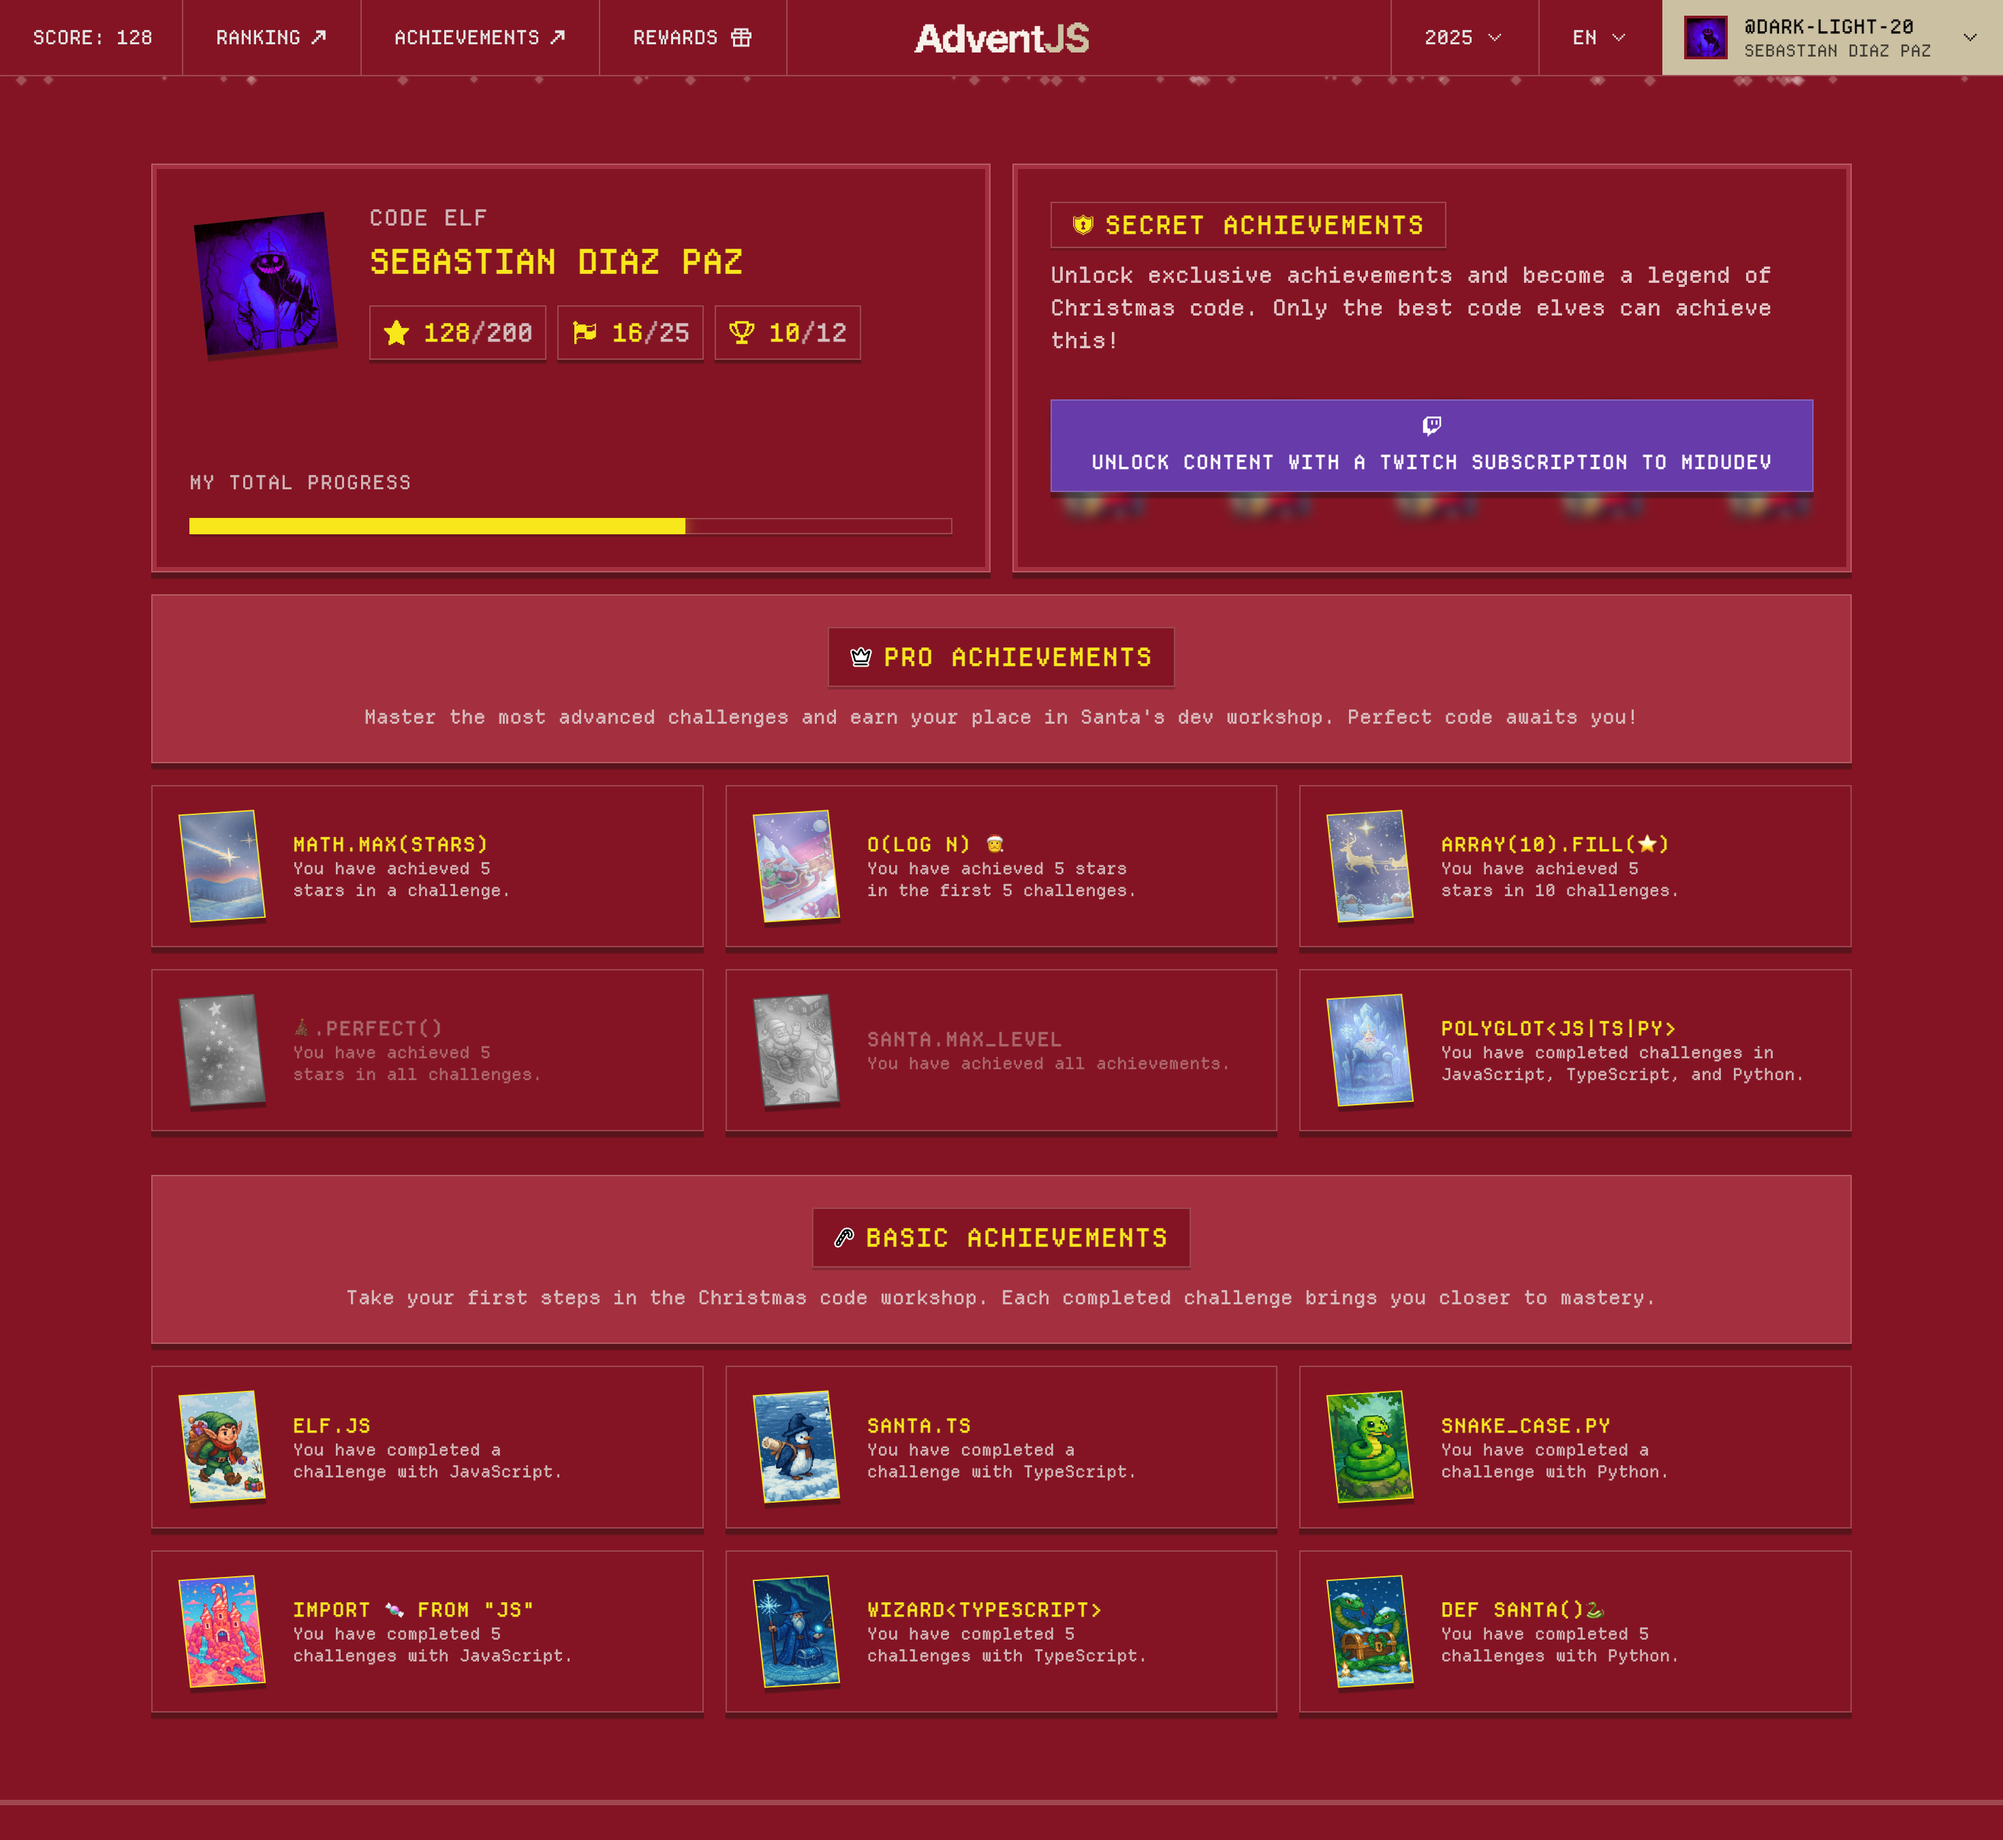
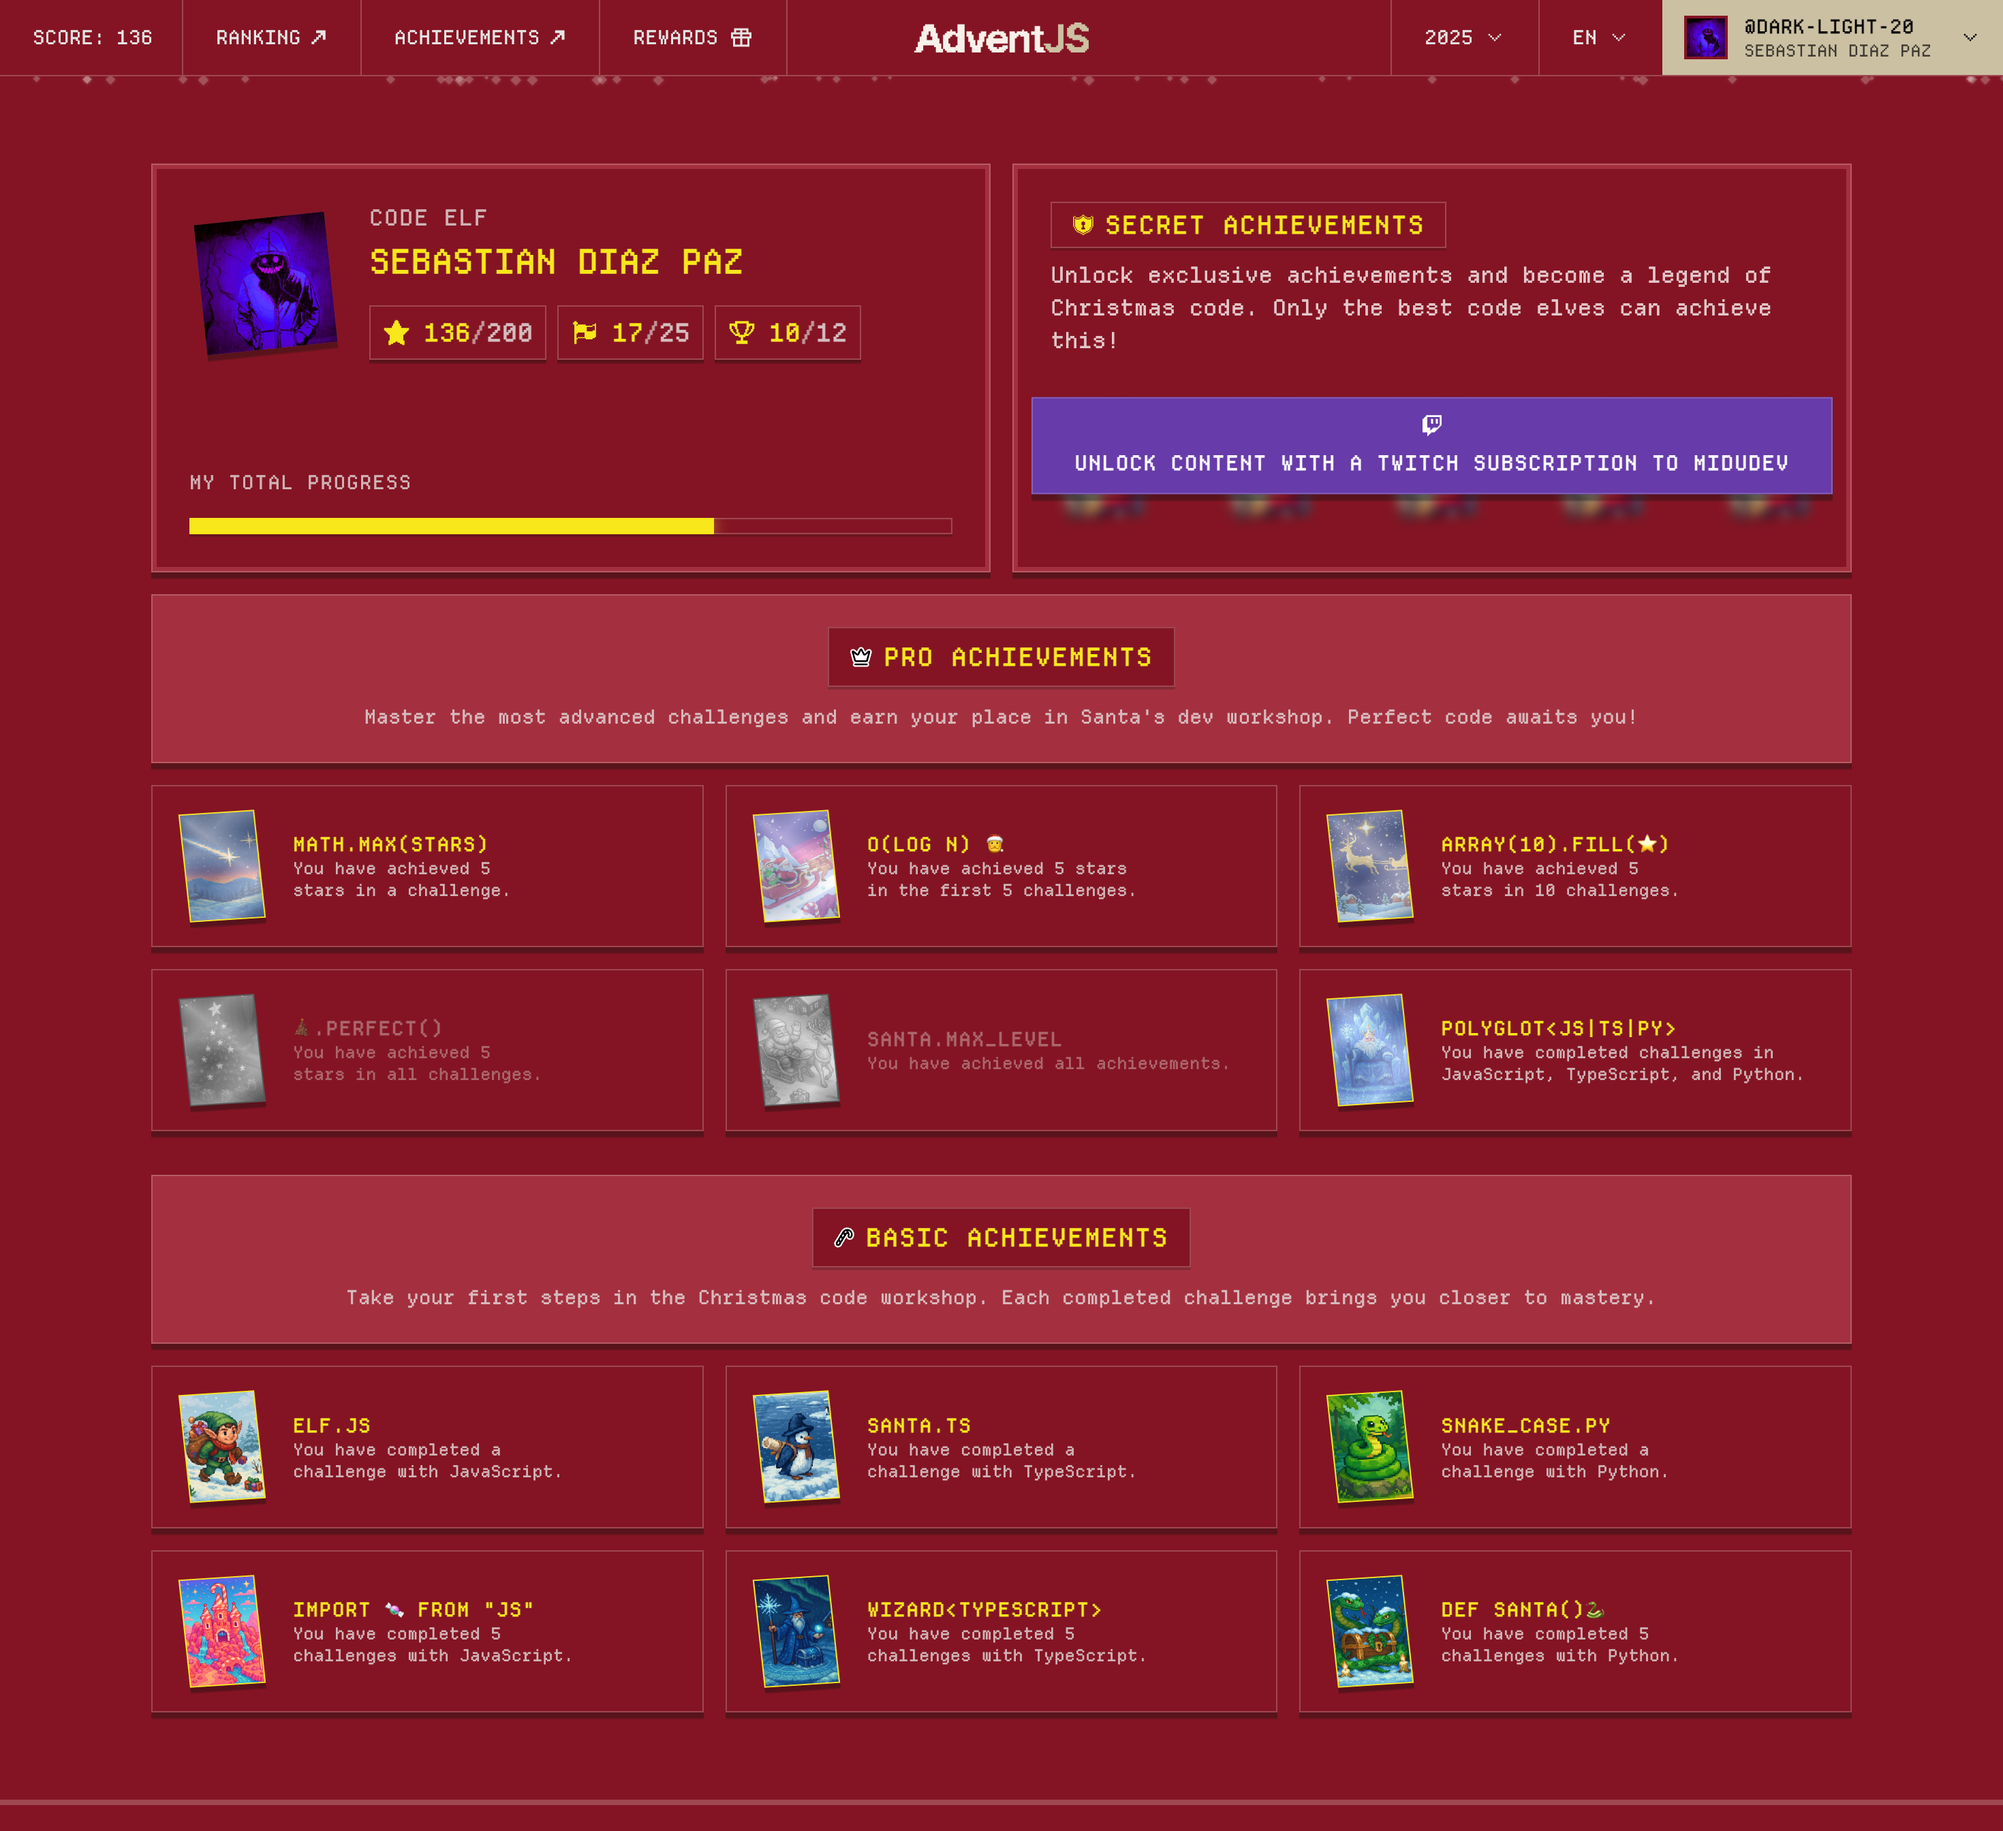
feat: :sparkles: Added challenge 18 solution

diff --git a/solutions/ts/17.ts b/solutions/ts/17.ts
@@ -1,0 +1,55 @@
+function hasFourLights(board: string[][]): boolean {
+  const horizontalLength = board[0].length;
+  for (const row of board) {
+    const line = row.join("");
+    if (line.includes("RRRR") || line.includes("GGGG")) {
+      return true;
+    }
+  }
+  for (let i = 0; i < horizontalLength; i++) {
+    let prev = "";
+    let count = 0;
+    for (const row of board) {
+      const cell = row[i];
+      if ((cell === "R" || cell === "G") && cell === prev) {
+        count += 1;
+        if (count === 4) return true;
+      } else {
+        prev = cell;
+        count = cell === "R" || cell === "G" ? 1 : 0;
+      }
+    }
+  }
+  return false;
+}
+
+const has1 = hasFourLights([
+  [".", ".", ".", ".", "."],
+  ["R", "R", "R", "R", "."],
+  ["G", "G", ".", ".", "."],
+]);
+// true → there are 4 red lights horizontally
+console.log(has1);
+
+const has2 = hasFourLights([
+  [".", "G", ".", "."],
+  [".", "G", ".", "."],
+  [".", "G", ".", "."],
+  [".", "G", ".", "."],
+]);
+// true → there are 4 green lights vertically
+console.log(has2);
+
+const has3 = hasFourLights([
+  ["R", "G", "R"],
+  ["G", "R", "G"],
+  ["G", "R", "G"],
+]);
+// false → there are no 4 lights of the same color in a row
+console.log(has3);
+
+/* 
+  Score: ★★★★★★★★ (3 bonus stars for solving it today!)
+  Points: 150
+  ops: 2983
+*/

diff --git a/solutions/js/17.js b/solutions/js/17.js
@@ -1,0 +1,53 @@
+/**
+ * @param {string[][]} board
+ * @returns {boolean}
+ */
+function hasFourLights(board) {
+  for (const row of board) {
+    const line = row.join("");
+    if (line.includes("RRRR") || line.includes("GGGG")) {
+      return true;
+    }
+  }
+  const horizontalLength = board[0].length;
+  for (let i = 0; i < horizontalLength; i++) {
+    const line = board.reduce((curr, row) => {
+      return curr.concat(row[i]);
+    }, "");
+    if (line.includes("RRRR") || line.includes("GGGG")) {
+      return true;
+    }
+  }
+  return false;
+}
+
+const has1 = hasFourLights([
+  [".", ".", ".", ".", "."],
+  ["R", "R", "R", "R", "."],
+  ["G", "G", ".", ".", "."],
+]);
+// true → there are 4 red lights horizontally
+console.log(has1);
+
+const has2 = hasFourLights([
+  [".", "G", ".", "."],
+  [".", "G", ".", "."],
+  [".", "G", ".", "."],
+  [".", "G", ".", "."],
+]);
+// true → there are 4 green lights vertically
+console.log(has2);
+
+const has3 = hasFourLights([
+  ["R", "G", "R"],
+  ["G", "R", "G"],
+  ["G", "R", "G"],
+]);
+// false → there are no 4 lights of the same color in a row
+console.log(has3);
+
+/* 
+  Score: ★★★★★★★★ (3 bonus stars for solving it today!)
+  Points: 200
+  ops: 3040
+*/

diff --git a/solutions/python/17.py b/solutions/python/17.py
@@ -1,0 +1,47 @@
+from functools import reduce
+
+
+def has_four_lights(board: list[list[str]]) -> bool:
+    for row in board:
+        line = "".join(row)
+        if "RRRR" in line or "GGGG" in line:
+            return True
+    horizontal_length = len(board[0])
+    for i in range(0, horizontal_length):
+        line = reduce(lambda curr, row: curr + row[i], board, "")
+        if "RRRR" in line or "GGGG" in line:
+            return True
+    return False
+
+
+has1 = has_four_lights([
+    [".", ".", ".", ".", "."],
+    ["R", "R", "R", "R", "."],
+    ["G", "G", ".", ".", "."],
+])
+# true → there are 4 red lights horizontally
+print(has1)
+
+has2 = has_four_lights([
+    [".", "G", ".", "."],
+    [".", "G", ".", "."],
+    [".", "G", ".", "."],
+    [".", "G", ".", "."],
+])
+# true → there are 4 green lights vertically
+print(has2)
+
+has3 = has_four_lights([
+    ["R", "G", "R"],
+    ["G", "R", "G"],
+    ["G", "R", "G"],
+])
+# false → there are no 4 lights of the same color in a row
+print(has3)
+
+
+"""
+  Score: ★★★★★★★★ (3 bonus stars for solving it today!)
+  Points: 300
+  ops: 3888
+"""

diff --git a/README.md b/README.md
@@ -24,7 +24,7 @@ This repository contains my solutions to **25** challenges proposed by [Midudev]
 | #14       | 🗃 Find the gift path         | 🟢 Easy    | [Description](challenges/14.md) | [JS Solution](solutions/js/14.js) | [TS Solution](solutions/ts/14.ts) | [Py Solution](solutions/python/14.py) |
 | #15       | ✏ Drawing tables             | 🟠 Medium  | [Description](challenges/15.md) | [JS Solution](solutions/js/15.js) | [TS Solution](solutions/ts/15.ts) | [Py Solution](solutions/python/15.py) |
 | #16       | 🎁 Packing gifts for Santa    | 🟢 Easy    | [Description](challenges/16.md) | [JS Solution](solutions/js/16.js) | [TS Solution](solutions/ts/16.ts) | [Py Solution](solutions/python/16.py) |
-| #17       |                               | ⚪ Unknow | [Description](challenges/17.md) | [JS Solution](solutions/js/17.js) | [TS Solution](solutions/ts/17.ts) | [Py Solution](solutions/python/17.py) |
+| #17       | 🎄 The Christmas lights panel | 🟢 Easy    | [Description](challenges/17.md) | [JS Solution](solutions/js/17.js) | [TS Solution](solutions/ts/17.ts) | [Py Solution](solutions/python/17.py) |
 | #18       |                               | ⚪ Unknow | [Description](challenges/18.md) | [JS Solution](solutions/js/18.js) | [TS Solution](solutions/ts/18.ts) | [Py Solution](solutions/python/18.py) |
 | #19       |                               | ⚪ Unknow | [Description](challenges/19.md) | [JS Solution](solutions/js/19.js) | [TS Solution](solutions/ts/19.ts) | [Py Solution](solutions/python/19.py) |
 | #20       |                               | ⚪ Unknow | [Description](challenges/20.md) | [JS Solution](solutions/js/20.js) | [TS Solution](solutions/ts/20.ts) | [Py Solution](solutions/python/20.py) |

diff --git a/challenges/17.md b/challenges/17.md
@@ -1,0 +1,41 @@
+# Challenge #17: 🎄 The Christmas lights panel
+
+<small>Easy</small>
+
+At the North Pole, they’ve set up a **panel of Christmas lights** 🎄✨ to decorate the workshop. Each light can be on with a color, or off.
+
+The panel is represented as a **matrix** where each cell can be:
+
+- `'.'` → light off
+- `'R'` → red light
+- `'G'` → green light
+
+The elves want to know if there is a **line of 4 lights of the same color** that are on and **aligned** on the panel (only horizontal ↔ or vertical ↕). Lights that are off (`'.'`) don’t count.
+
+🧩 Examples
+
+```javascript
+hasFourLights([
+  [".", ".", ".", ".", "."],
+  ["R", "R", "R", "R", "."],
+  ["G", "G", ".", ".", "."],
+]);
+// true → there are 4 red lights horizontally
+
+hasFourLights([
+  [".", "G", ".", "."],
+  [".", "G", ".", "."],
+  [".", "G", ".", "."],
+  [".", "G", ".", "."],
+]);
+// true → there are 4 green lights vertically
+
+hasFourLights([
+  ["R", "G", "R"],
+  ["G", "R", "G"],
+  ["G", "R", "G"],
+]);
+// false → there are no 4 lights of the same color in a row
+```
+
+**Note:** The board can be any size. No diagonals.
